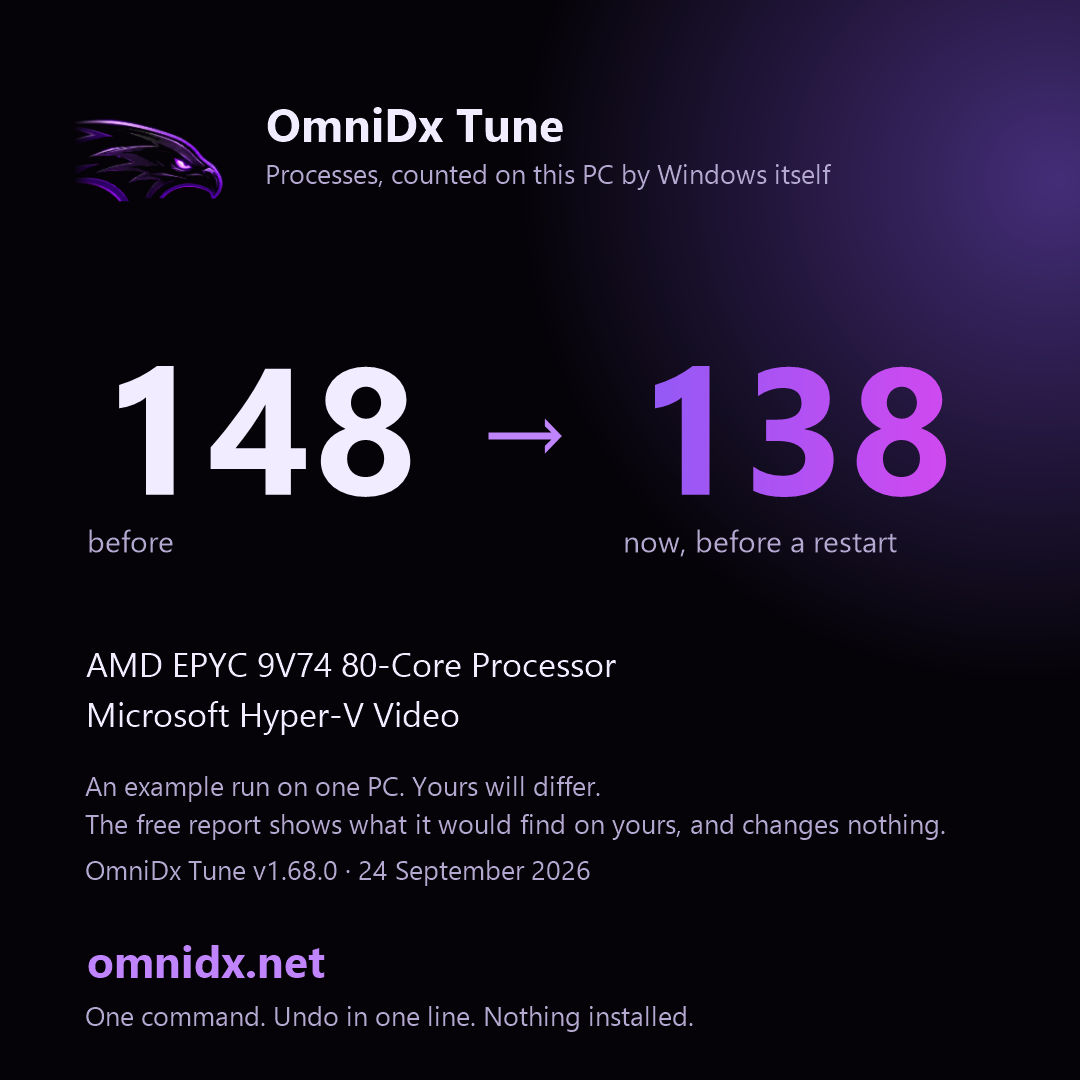
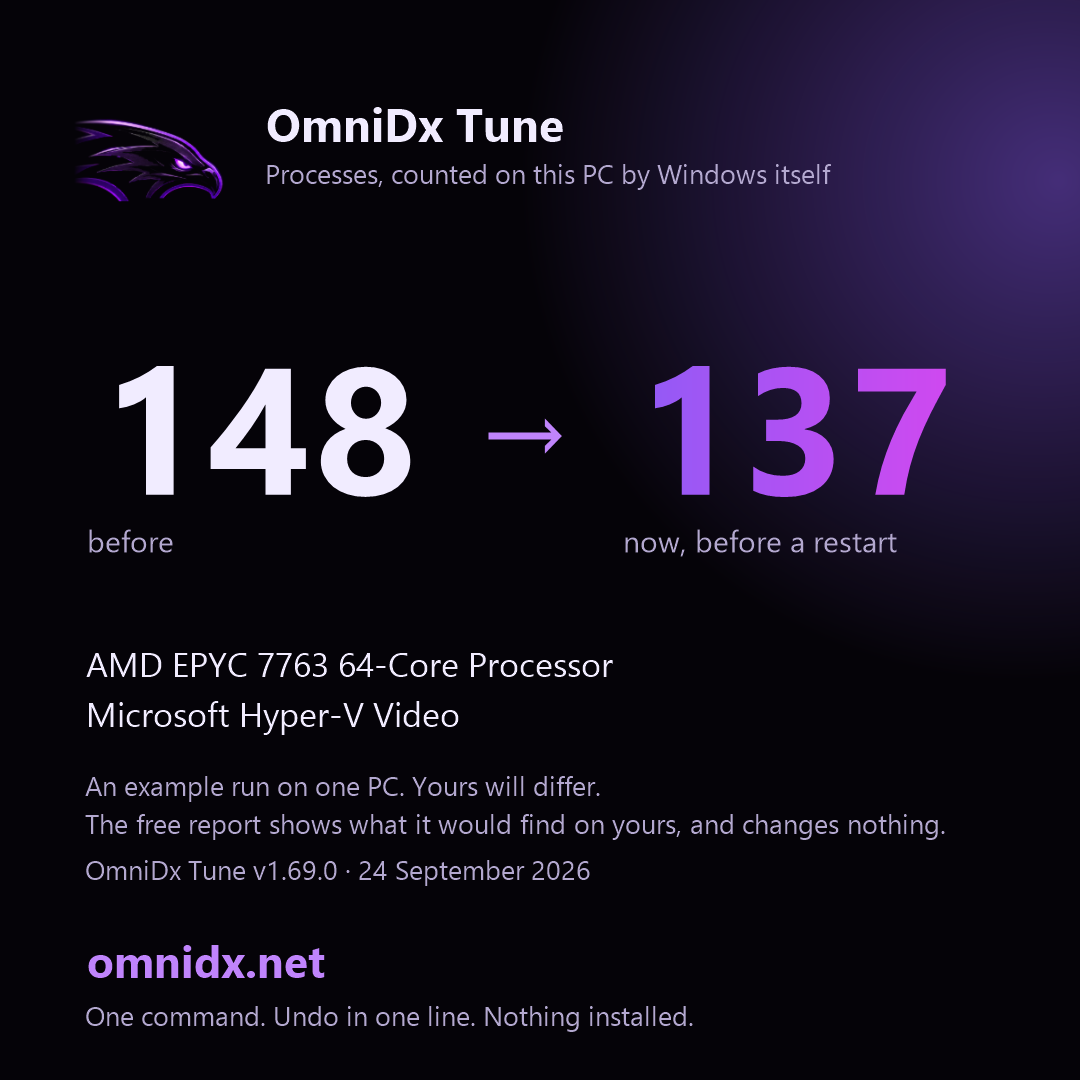
Windows check: the app window, the numbers, the log, and the script this run verified

Changed region(s): [[0.2444, 0.5806, 0.5806, 0.6417], [0.7944, 0.3361, 0.8861, 0.4583], [0.275, 0.7944, 0.3056, 0.825]]

diff --git a/studio/assets/ci-report.html b/studio/assets/ci-report.html
@@ -1,5 +1,5 @@
 <!doctype html><html lang="en"><head><meta charset="utf-8"><meta name="viewport" content="width=device-width,initial-scale=1">
-<title>OmniDx Tune report - 2026-09-24_11-52-51</title>
+<title>OmniDx Tune report - 2026-09-24_12-01-41</title>
 <style>
 body{margin:0;background:#050308;color:#f1ecff;font:15px/1.6 -apple-system,'Segoe UI',Roboto,system-ui,sans-serif}
 main{max-width:860px;margin:0 auto;padding:36px 20px 80px}
@@ -17,95 +17,41 @@ details{margin:10px 0;background:#0e0a17;border:1px solid #2a1f45;border-radius:
 details pre{font:12.5px/1.5 ui-monospace,Consolas,monospace;color:#b3a8cf;overflow:auto;max-height:420px;margin:10px 0 4px}
 .bios ul{list-style:none;padding-left:2px}.bios li{margin:8px 0;color:#f1ecff}.bios{background:#0e0a17;border:1px solid #2a1f45;border-radius:14px;padding:6px 18px}
 </style></head><body><main>
-<h1><img src="https://omnidx.net/studio/assets/icons/icon-192.png" alt="" width="44" height="44" style="vertical-align:middle;margin-right:10px" onerror="this.remove()">OmniDx Tune <span class="muted" style="font-size:16px">v1.68.0</span></h1>
-<p class="sub">Thursday, September 24, 2026 11:53 AM &middot; AMD EPYC 9V74 80-Core Processor &middot; Microsoft Hyper-V Video &middot; 16 GB &middot; Microsoft Corporation Virtual Machine</p>
-<div class="big"><div><b>148</b><span>processes before</span></div><div><b>138</b><span>now, before a restart</span></div><div><b>~70</b><span>target for this PC after a restart</span></div></div>
+<h1><img src="https://omnidx.net/studio/assets/icons/icon-192.png" alt="" width="44" height="44" style="vertical-align:middle;margin-right:10px" onerror="this.remove()">OmniDx Tune <span class="muted" style="font-size:16px">v1.69.0</span></h1>
+<p class="sub">Thursday, September 24, 2026 12:02 PM &middot; AMD EPYC 7763 64-Core Processor &middot; Microsoft Hyper-V Video &middot; 16 GB &middot; Microsoft Corporation Virtual Machine</p>
+<div class="big"><div><b>148</b><span>processes before</span></div><div><b>137</b><span>now, before a restart</span></div><div><b>~70</b><span>target for this PC after a restart</span></div></div>
 <p class='muted'>The card, for posting (the same numbers, on one picture): <code>ci-card.png</code></p><img src='ci-card.png' alt='Before and after, on a card' style='max-width:340px;width:100%;border-radius:14px;border:1px solid #2a1f45'>
 <p class="muted">Many of the "now" processes are only waiting to be stopped. The number after a restart is the one that counts; <code>C:\OmniDx\after-restart.txt</code> gets it at your next sign-in. Kept cut: a task at each sign-in puts back what a Windows update turns on; undo removes it.</p>
 <h2>Next steps</h2><ol><li>Restart. The services told to stop are still unwinding until you do, and the after-restart count lands in C:\OmniDx\after-restart.txt at your next sign-in, with the boot time of that start next to the one from before the tune.</li><li>BIOS: items 1 to 3 (memory profile, Re-Size BAR, CSM). Ten minutes, and the memory profile alone is the biggest free gain any PC has.</li><li>GPU control panel: low latency mode, power management and V-Sync, from the list below. Two minutes.</li><li>Launchers and overlays: the list below names the one or two settings in each that matter; the overlays are the usual cause of a stutter that &quot;came from nowhere&quot;.</li><li>Any time: $env:OMNIDX_MODE=&#39;status&#39;; irm omnidx.net/go.ps1 | iex shows what is still in place; undo is one line, and it is in this report.</li></ol>
-<h2>Before and after</h2><table><tr><th></th><th>Before</th><th>Now</th></tr><tr><td>Processes</td><td>148</td><td>138</td></tr><tr><td>Threads</td><td>1603</td><td>1475</td></tr><tr><td>Handles</td><td>51249</td><td>47432</td></tr><tr><td>Memory in use</td><td>2858 MB</td><td>2937 MB</td></tr><tr><td>Idle CPU</td><td>1.7%</td><td>0.3%</td></tr><tr><td>DPC time</td><td>0.13%</td><td>0%</td></tr></table>
+<h2>Before and after</h2><table><tr><th></th><th>Before</th><th>Now</th></tr><tr><td>Processes</td><td>148</td><td>137</td></tr><tr><td>Threads</td><td>1480</td><td>1440</td></tr><tr><td>Handles</td><td>49918</td><td>46705</td></tr><tr><td>Memory in use</td><td>2834 MB</td><td>2915 MB</td></tr><tr><td>Idle CPU</td><td>1%</td><td>1.8%</td></tr><tr><td>DPC time</td><td>0%</td><td>0.26%</td></tr></table>
 <h2>Gone, by name</h2><p class='muted'>Running before, not running now: spoolsv</p>
-<details><summary>Every process, before (55 names)</summary><pre>svchost                                  x83     1,270 MB
+<details><summary>Every process, before (56 names)</summary><pre>svchost                                  x82     1,237 MB
 conhost                                  x4         34 MB
-taskhostw                                x3         63 MB
+taskhostw                                x3         59 MB
 WmiPrvSE                                 x3         62 MB
 csrss                                    x2         14 MB
 fontdrvhost                              x2         11 MB
 notepad                                  x2         59 MB
 SMSvcHost                                x2         50 MB
 AzureArcSysTray                          x1         19 MB
-ctfmon                                   x1         26 MB
-dockerd                                  x1         45 MB
+ctfmon                                   x1         25 MB
+DefenderSessionHelper                    x1          6 MB
+dockerd                                  x1         46 MB
 dwm                                      x1         76 MB
-explorer                                 x1        163 MB
-hosted-compute-agent                     x1         21 MB
+explorer                                 x1        159 MB
+hosted-compute-agent                     x1         22 MB
 Idle                                     x1          0 MB
 LsaIso                                   x1          4 MB
 lsass                                    x1         31 MB
-MpDefenderCoreService                    x1         29 MB
+MpDefenderCoreService                    x1         30 MB
 mqsvc                                    x1         19 MB
 msdtc                                    x1         14 MB
-MsMpEng                                  x1        201 MB
-node                                     x1         43 MB
+MsMpEng                                  x1        197 MB
+node                                     x1         40 MB
 OpenConsole                              x1         14 MB
-powershell                               x1        164 MB
-provjobd.exe3832855868                   x1         36 MB
+powershell                               x1        165 MB
+provjobd.exe537717457                    x1         36 MB
 Registry                                 x1         45 MB
-Runner.Listener                          x1         70 MB
-Runner.Worker                            x1        104 MB
-RuntimeBroker                            x1         49 MB
-SearchHost                               x1        113 MB
-Secure System                            x1         52 MB
-SecurityHealthService                    x1         12 MB
-ServiceFabricLocalClusterManager         x1         36 MB
-services                                 x1         11 MB
-ShellHost                                x1         42 MB
-sihost                                   x1         42 MB
-smartscreen                              x1         12 MB
-smss                                     x1          2 MB
-spoolsv                                  x1         22 MB
-sqlwriter                                x1         11 MB
-sshd                                     x1          9 MB
-StartMenuExperienceHost                  x1        133 MB
-System                                   x1          0 MB
-TiWorker                                 x1         31 MB
-TrustedInstaller                         x1         10 MB
-UserOOBEBroker                           x1         11 MB
-vmcompute                                x1         10 MB
-vmms                                     x1         33 MB
-WaAppAgent                               x1         86 MB
-WaSecAgentProv                           x1          5 MB
-WindowsAzureGuestAgent                   x1         70 MB
-WindowsTerminal                          x1         85 MB
-wininit                                  x1          9 MB
-winlogon                                 x1         13 MB
-wslservice                               x1         28 MB</pre></details><details><summary>Every process, after (56 names)</summary><pre>svchost                                  x72     1,083 MB
-conhost                                  x4         33 MB
-taskhostw                                x3         59 MB
-WmiPrvSE                                 x3         68 MB
-csrss                                    x2         14 MB
-fontdrvhost                              x2         11 MB
-notepad                                  x2         59 MB
-SMSvcHost                                x2         50 MB
-AzureArcSysTray                          x1         19 MB
-ctfmon                                   x1         26 MB
-dllhost                                  x1         13 MB
-dockerd                                  x1         45 MB
-dwm                                      x1         76 MB
-explorer                                 x1        161 MB
-hosted-compute-agent                     x1         21 MB
-Idle                                     x1          0 MB
-LsaIso                                   x1          4 MB
-lsass                                    x1         31 MB
-MpDefenderCoreService                    x1         29 MB
-mqsvc                                    x1         19 MB
-msdtc                                    x1         14 MB
-MsMpEng                                  x1        201 MB
-node                                     x1         41 MB
-OpenConsole                              x1         14 MB
-powershell                               x1        191 MB
-provjobd.exe3832855868                   x1         35 MB
-Registry                                 x1         74 MB
 Runner.Listener                          x1         71 MB
 Runner.Worker                            x1        102 MB
 RuntimeBroker                            x1         47 MB
@@ -115,17 +61,18 @@ SecurityHealthService                    x1         12 MB
 ServiceFabricLocalClusterManager         x1         36 MB
 services                                 x1         12 MB
 ShellHost                                x1         42 MB
-sihost                                   x1         42 MB
+sihost                                   x1         43 MB
 smartscreen                              x1         12 MB
 smss                                     x1          2 MB
+spoolsv                                  x1         22 MB
 sqlwriter                                x1         11 MB
 sshd                                     x1          9 MB
-StartMenuExperienceHost                  x1        131 MB
+StartMenuExperienceHost                  x1        130 MB
 System                                   x1          0 MB
-TiWorker                                 x1         38 MB
+TiWorker                                 x1         30 MB
 TrustedInstaller                         x1         10 MB
 UserOOBEBroker                           x1         11 MB
-vmcompute                                x1         10 MB
+vmcompute                                x1         11 MB
 vmms                                     x1         33 MB
 WaAppAgent                               x1         86 MB
 WaSecAgentProv                           x1          5 MB
@@ -133,8 +80,62 @@ WindowsAzureGuestAgent                   x1         70 MB
 WindowsTerminal                          x1         85 MB
 wininit                                  x1          9 MB
 winlogon                                 x1         13 MB
-WMIADAP                                  x1         11 MB
-wslservice                               x1         29 MB</pre></details>
+wslservice                               x1         28 MB</pre></details><details><summary>Every process, after (56 names)</summary><pre>svchost                                  x71     1,073 MB
+conhost                                  x4         34 MB
+taskhostw                                x3         56 MB
+WmiPrvSE                                 x3         69 MB
+csrss                                    x2         14 MB
+fontdrvhost                              x2         11 MB
+notepad                                  x2         59 MB
+SMSvcHost                                x2         50 MB
+AzureArcSysTray                          x1         19 MB
+ctfmon                                   x1         25 MB
+DefenderSessionHelper                    x1          6 MB
+dllhost                                  x1         13 MB
+dockerd                                  x1         46 MB
+dwm                                      x1         76 MB
+explorer                                 x1        160 MB
+hosted-compute-agent                     x1         21 MB
+Idle                                     x1          0 MB
+LsaIso                                   x1          4 MB
+lsass                                    x1         31 MB
+MpDefenderCoreService                    x1         30 MB
+mqsvc                                    x1         19 MB
+msdtc                                    x1         14 MB
+MsMpEng                                  x1        162 MB
+node                                     x1         39 MB
+OpenConsole                              x1         14 MB
+powershell                               x1        190 MB
+provjobd.exe537717457                    x1         35 MB
+Registry                                 x1         74 MB
+Runner.Listener                          x1         71 MB
+Runner.Worker                            x1        100 MB
+RuntimeBroker                            x1         47 MB
+SearchHost                               x1        109 MB
+Secure System                            x1         52 MB
+SecurityHealthService                    x1         12 MB
+ServiceFabricLocalClusterManager         x1         36 MB
+services                                 x1         12 MB
+ShellHost                                x1         42 MB
+sihost                                   x1         43 MB
+smartscreen                              x1         12 MB
+smss                                     x1          2 MB
+sqlwriter                                x1         11 MB
+sshd                                     x1          9 MB
+StartMenuExperienceHost                  x1        131 MB
+System                                   x1          0 MB
+TiWorker                                 x1         40 MB
+TrustedInstaller                         x1         10 MB
+UserOOBEBroker                           x1         11 MB
+vmcompute                                x1         11 MB
+vmms                                     x1         33 MB
+WaAppAgent                               x1         86 MB
+WaSecAgentProv                           x1          5 MB
+WindowsAzureGuestAgent                   x1         70 MB
+WindowsTerminal                          x1         85 MB
+wininit                                  x1          9 MB
+winlogon                                 x1         13 MB
+wslservice                               x1         28 MB</pre></details>
 <h2>Kept, and why</h2><ul><li>Defender, the firewall, Windows Update, audio, networking: always</li><li>Themes: Windows 10 falls back to the classic look without it</li><li>vmicguestinterface: this is a virtual machine</li><li>vmicheartbeat: this is a virtual machine</li><li>vmickvpexchange: this is a virtual machine</li><li>vmicrdv: this is a virtual machine</li><li>vmicshutdown: this is a virtual machine</li><li>vmictimesync: this is a virtual machine</li><li>vmicvmsession: this is a virtual machine</li><li>vmicvss: this is a virtual machine</li></ul>
 <h2>Warnings (3)</h2><div class="warn"><ul><li>The GPU driver dates from Jun 2006. A current driver is worth more than most tweaks.</li><li>This looks like a virtual machine. The tune will run, but the numbers mean little here.</li><li>Could not make a restore point (This functionality is not supported on this operating system.). The undo script still records everything.</li></ul></div>
 <h2>BIOS checklist for Microsoft Corporation Virtual Machine</h2><div class="bios"><ul><li>How to get in: restart, then press Del or F2 while the logo shows.</li><li>Where things are: the Advanced / Overclocking pages for memory, the PCI or Chipset page for Above 4G / Re-Size BAR, the Boot page for CSM, the Security page for TPM and Secure Boot.</li><li>1. Memory profile: enable EXPO (or DOCP / A-XMP on older boards). Your RAM is running at the slow default until you do; this is the single biggest free gain on any PC. Pick the profile matching the speed printed on the sticks.</li><li>2. Re-Size BAR / Smart Access Memory: set Above 4G Decoding = Enabled, then Re-Size BAR Support = Auto/Enabled. Needs CSM off (next line). Worth 5-15% in many games on RTX 30/40/50 and RX 6000+.</li><li>3. CSM (Compatibility Support Module): Disabled. You already boot UEFI, so nothing depends on it, and Re-Size BAR needs it off.</li><li>4. Secure Boot: Enabled. Windows 11 and Vanguard expect it; on 10 it costs nothing. Set OS Type / Secure Boot Mode to Windows UEFI if asked.</li><li>5. TPM: not detected. Enable AMD fTPM (AMD) or Intel PTT (Intel) under Security / Trusted Computing. VALORANT on Windows 11 will not run without it.</li><li>6. Precision Boost Overdrive: Enabled (or Advanced with the Curve Optimizer at a modest negative offset like -15 all-core if you know your cooler). Never a positive voltage offset.</li><li>7. Global C-states / package C-states: Auto is fine. Disabling them buys nothing measurable in games and raises idle heat.</li><li>8. Fast Boot: Enabled. Full Screen Logo / Boot Logo: Disabled (a second off every boot).</li><li>9. Fan curves: set the CPU fan to reach 100% by 80 C and the case fans to a steady ramp. Sustained boost needs airflow more than anything.</li><li>10. Onboard devices you do not use: serial port, Wi-Fi/Bluetooth if wired, onboard audio if you use USB audio, RGB controllers. Each one removed is an interrupt source gone.</li><li>11. HPET: leave at default. The &#39;disable HPET&#39; tweak is from 2013 and hurts more than it helps on modern Windows.</li><li>12. Virtualisation (SVM / VT-x): leave on if you use WSL, Docker, an emulator, or play VALORANT or on FACEIT (their anti-cheat needs it, with IOMMU); otherwise off saves a little scheduling overhead.</li><li>After saving: Windows will boot normally. If it does not (rare, usually CSM), go back in and re-enable the last thing you changed.</li><li>Do not update the BIOS unless the vendor&#39;s notes mention a fix for your exact problem; a failed flash is the one thing here that cannot be undone from Windows.</li></ul></div>
@@ -142,8 +143,8 @@ wslservice                               x1         29 MB</pre></details>
 <h2>Launchers, overlays and helper apps</h2><ul><li>None of the usual launchers, overlays or peripheral suites found. The same notes apply the day you install one; run the command again and they appear here.</li></ul>
 <h2>Left by other tools</h2><p class="muted">The tune changes none of these; it names them, with the way back.</p><ul><li>Nothing found: no other tool has left Defender, Windows Update, SmartScreen, User Account Control or the CPU mitigations switched off on this PC.</li></ul>
 <h2>Per game</h2><p class='muted'>Not found on this PC (the same profile applies if you install them): Fortnite, VALORANT, Counter-Strike 2, Marvel Rivals, Apex Legends, Call of Duty (Warzone / MW), Overwatch 2, Rainbow Six Siege, Rocket League, Minecraft, Roblox, League of Legends, GTA V / Online, Rust, Escape from Tarkov, PUBG, The Finals, Dota 2, Battlefield 6, Deadlock, Delta Force, ARC Raiders, Helldivers 2, Warframe, Destiny 2, Halo Infinite, Dead by Daylight, Hunt: Showdown 1896, War Thunder, World of Warcraft, Squad, Battlefield 2042, EA Sports FC 26, NBA 2K26, Palworld, Path of Exile 2, Diablo IV, Monster Hunter Wilds, Elden Ring / Nightreign, Cyberpunk 2077, Baldur&#39;s Gate 3, Star Citizen, DayZ, Arma Reforger, Hell Let Loose, Genshin Impact, Ready or Not, Final Fantasy XIV, STALKER 2, Sea of Thieves</p>
-<h2>What was done</h2><h4>Safety first</h4><div class='did'>Registry and service list backed up to C:\OmniDx\backup\2026-09-24_11-52-51</div><div class='did'>undo.ps1 written to C:\OmniDx\undo</div><h4>Startup apps</h4><div class='did'>off: AzureArcSetup</div><div class='did'>off: Service Fabric Local Cluster Manager (Startup folder)</div><h4>Services</h4><div class='did'>dmwappushservice -&gt; disabled  (telemetry push)</div><div class='did'>WerSvc -&gt; disabled  (error reporting)</div><div class='did'>wercplsupport -&gt; disabled  (error reporting)</div><div class='did'>PcaSvc -&gt; disabled  (compatibility assistant)</div><div class='did'>lfsvc -&gt; disabled  (geolocation)</div><div class='did'>RemoteRegistry -&gt; disabled  (remote registry)</div><div class='did'>WMPNetworkSvc -&gt; disabled  (media sharing)</div><div class='did'>TrkWks -&gt; disabled  (link tracking)</div><div class='did'>WalletService -&gt; disabled  (wallet)</div><div class='did'>wisvc -&gt; disabled  (insider program)</div><div class='did'>SEMgrSvc -&gt; disabled  (payments and NFC)</div><div class='did'>TapiSrv -&gt; disabled  (telephony)</div><div class='did'>SharedAccess -&gt; disabled  (internet connection sharing)</div><div class='did'>edgeupdate -&gt; manual  (Edge updater (runs on demand))</div><div class='did'>WbioSrvc -&gt; disabled  (biometrics)</div><div class='did'>SysMain already disabled; left that way</div><div class='did'>WSearch already disabled; left that way</div><div class='did'>Spooler -&gt; disabled  (print spooler)</div><div class='did'>bthserv -&gt; disabled  (bluetooth)</div><div class='did'>WlanSvc -&gt; disabled  (wi-fi)</div><div class='did'>CDPSvc -&gt; manual  (connected devices)</div><div class='did'>CDPUserSvc already disabled; left that way</div><div class='did'>OneSyncSvc already disabled; left that way</div><div class='did'>PimIndexMaintenanceSvc already disabled; left that way</div><div class='did'>UnistoreSvc already disabled; left that way</div><div class='did'>UserDataSvc already disabled; left that way</div><div class='did'>SSDPSRV already disabled; left that way</div><div class='did'>upnphost already disabled; left that way</div><div class='did'>DPS -&gt; manual  (diagnostic policy)</div><div class='did'>SCardSvr -&gt; disabled  (smart card)</div><div class='did'>ScDeviceEnum -&gt; disabled  (smart card)</div><div class='did'>CertPropSvc -&gt; disabled  (smart card)</div><div class='did'>iphlpsvc -&gt; manual  (ipv6 tunnels)</div><div class='did'>cbdhsvc -&gt; manual  (clipboard history)</div><div class='did'>WpnService -&gt; manual  (push notifications)</div><div class='did'>WpnUserService -&gt; manual  (push notifications)</div><div class='did'>SNMPTRAP -&gt; disabled  (SNMP traps)</div><div class='did'>workfolderssvc -&gt; disabled  (Work Folders sync)</div><h4>Scheduled tasks</h4><div class='did'>PcaPatchDbTask</div><div class='did'>CreateObjectTask</div><div class='did'>Device</div><div class='did'>Device User</div><div class='did'>LoginCheck</div><div class='did'>WindowsActionDialog</div><div class='did'>OobeDiscovery</div><div class='did'>Diagnostics</div><div class='did'>UsageDataFlushing</div><div class='did'>UsageDataReporting</div><div class='did'>Registration</div><div class='did'>IndexerAutomaticMaintenance</div><div class='did'>Storage Tiers Management Initialization</div><div class='did'>UPnPHostConfig</div><div class='did'>ResolutionHost</div><div class='did'>UpdateLibrary</div><div class='did'>Work Folders Logon Synchronization</div><div class='did'>Work Folders Maintenance Work</div><h4>Preinstalled apps</h4><div class='did'>Microsoft.WindowsFeedbackHub</div><h4>Debloat</h4><div class='did'>removed Steps Recorder (screenshots every click, retired by Microsoft)</div><div class='did'>removed the 2009 Windows Media Player (the Store one stays)</div><div class='did'>removed Math Input Panel</div><div class='did'>removed Internet Explorer 11</div><div class='did'>off: Work Folders (corporate sync)</div><div class='did'>Edge: shopping assistant, recommendations, Spotlight, feedback prompts and reporting off</div><div class='did'>Kept gone: consumer features, suggested apps, account nags and the &#39;finish setting up&#39; screen are off by policy</div><h4>Telemetry, background activity, the shell</h4><div class='did'>Telemetry, the advertising id, activity history, suggestions, Bing in Start, Recall and Edge&#39;s reporting off; background apps off; widgets, news, Copilot and Cortana off; Game DVR off, Game Mode on; the classic right-click menu on 11</div><h4>System tuning</h4><div class='did'>NTFS last-access stamps off</div><div class='did'>NTFS allowed more memory for its cache</div><div class='did'>Defender&#39;s scheduled scans already capped at 5% of the CPU, lower than the tune&#39;s 25%: left as it is</div><h4>The OmniDx power plan</h4><div class='did'>2 plan setting(s) this PC does not have were skipped.</div><div class='did'>OmniDx plan created and active: CPU 100/100, boost aggressive, energy preference on performance, no core parking, no throttle states on a desktop, PCIe, USB and Wi-Fi power saving off, no sleep on mains.</div><h4>Network</h4><div class='did'>TCP: autotuning normal, ECN and timestamps off, receive-side scaling on, segment coalescing off, CTCP.</div><div class='did'>Ethernet 3: Nagle off, power saving off</div><div class='did'>Ethernet 4: Interrupt Moderation off</div><div class='did'>Ethernet 4: Nagle off, power saving off</div><h4>Discord, Spotify, browsers</h4><div class='did'>Chrome: no background mode, hardware acceleration on</div><div class='did'>Edge: no startup boost, no background mode, hardware acceleration on</div><h4>Game profiles</h4><div class='did'>No listed game found on the usual drives; the CPU-priority profiles are in place for when one is installed.</div><h4>Cleanup</h4><div class='did'>Temp files, the Windows Update download cache and the peer-to-peer update cache cleared: about 374 MB back.</div><h4>Keeping it cut</h4><div class='did'>Task &#39;OmniDx keep&#39; runs three minutes after sign-in, puts back whatever an update turned on, notes that start&#39;s boot time and writes card-after-restart.png with that start&#39;s count. Log: C:\OmniDx\keep-log.txt. Undo removes it.</div>
-<h2>Undo</h2><p>Administrator PowerShell: <code>powershell -ExecutionPolicy Bypass -File C:\OmniDx\undo\undo.ps1</code><br>No restore point was made on this run (see the warnings); the undo script is the way back.<br>Changes recorded in <code>C:\OmniDx\undo\changes-2026-09-24_11-52-51.json</code>.</p>
+<h2>What was done</h2><h4>Safety first</h4><div class='did'>Registry and service list backed up to C:\OmniDx\backup\2026-09-24_12-01-41</div><div class='did'>undo.ps1 written to C:\OmniDx\undo</div><h4>Startup apps</h4><div class='did'>off: AzureArcSetup</div><div class='did'>off: Service Fabric Local Cluster Manager (Startup folder)</div><h4>Services</h4><div class='did'>dmwappushservice -&gt; disabled  (telemetry push)</div><div class='did'>WerSvc -&gt; disabled  (error reporting)</div><div class='did'>wercplsupport -&gt; disabled  (error reporting)</div><div class='did'>PcaSvc -&gt; disabled  (compatibility assistant)</div><div class='did'>lfsvc -&gt; disabled  (geolocation)</div><div class='did'>RemoteRegistry -&gt; disabled  (remote registry)</div><div class='did'>WMPNetworkSvc -&gt; disabled  (media sharing)</div><div class='did'>TrkWks -&gt; disabled  (link tracking)</div><div class='did'>WalletService -&gt; disabled  (wallet)</div><div class='did'>wisvc -&gt; disabled  (insider program)</div><div class='did'>SEMgrSvc -&gt; disabled  (payments and NFC)</div><div class='did'>TapiSrv -&gt; disabled  (telephony)</div><div class='did'>SharedAccess -&gt; disabled  (internet connection sharing)</div><div class='did'>edgeupdate -&gt; manual  (Edge updater (runs on demand))</div><div class='did'>WbioSrvc -&gt; disabled  (biometrics)</div><div class='did'>SysMain already disabled; left that way</div><div class='did'>WSearch already disabled; left that way</div><div class='did'>Spooler -&gt; disabled  (print spooler)</div><div class='did'>bthserv -&gt; disabled  (bluetooth)</div><div class='did'>WlanSvc -&gt; disabled  (wi-fi)</div><div class='did'>CDPSvc -&gt; manual  (connected devices)</div><div class='did'>CDPUserSvc already disabled; left that way</div><div class='did'>OneSyncSvc already disabled; left that way</div><div class='did'>PimIndexMaintenanceSvc already disabled; left that way</div><div class='did'>UnistoreSvc already disabled; left that way</div><div class='did'>UserDataSvc already disabled; left that way</div><div class='did'>SSDPSRV already disabled; left that way</div><div class='did'>upnphost already disabled; left that way</div><div class='did'>DPS -&gt; manual  (diagnostic policy)</div><div class='did'>SCardSvr -&gt; disabled  (smart card)</div><div class='did'>ScDeviceEnum -&gt; disabled  (smart card)</div><div class='did'>CertPropSvc -&gt; disabled  (smart card)</div><div class='did'>iphlpsvc -&gt; manual  (ipv6 tunnels)</div><div class='did'>cbdhsvc -&gt; manual  (clipboard history)</div><div class='did'>WpnService -&gt; manual  (push notifications)</div><div class='did'>WpnUserService -&gt; manual  (push notifications)</div><div class='did'>SNMPTRAP -&gt; disabled  (SNMP traps)</div><div class='did'>workfolderssvc -&gt; disabled  (Work Folders sync)</div><h4>Scheduled tasks</h4><div class='did'>PcaPatchDbTask</div><div class='did'>CreateObjectTask</div><div class='did'>Device</div><div class='did'>Device User</div><div class='did'>LoginCheck</div><div class='did'>WindowsActionDialog</div><div class='did'>OobeDiscovery</div><div class='did'>Diagnostics</div><div class='did'>UsageDataFlushing</div><div class='did'>UsageDataReporting</div><div class='did'>Registration</div><div class='did'>IndexerAutomaticMaintenance</div><div class='did'>Storage Tiers Management Initialization</div><div class='did'>UPnPHostConfig</div><div class='did'>ResolutionHost</div><div class='did'>UpdateLibrary</div><div class='did'>Work Folders Logon Synchronization</div><div class='did'>Work Folders Maintenance Work</div><h4>Preinstalled apps</h4><div class='did'>Microsoft.WindowsFeedbackHub</div><h4>Debloat</h4><div class='did'>removed Steps Recorder (screenshots every click, retired by Microsoft)</div><div class='did'>removed the 2009 Windows Media Player (the Store one stays)</div><div class='did'>removed Math Input Panel</div><div class='did'>removed Internet Explorer 11</div><div class='did'>off: Work Folders (corporate sync)</div><div class='did'>Edge: shopping assistant, recommendations, Spotlight, feedback prompts and reporting off</div><div class='did'>Kept gone: consumer features, suggested apps, account nags and the &#39;finish setting up&#39; screen are off by policy</div><h4>Telemetry, background activity, the shell</h4><div class='did'>Telemetry, the advertising id, activity history, suggestions, Bing in Start, Recall and Edge&#39;s reporting off; background apps off; widgets, news, Copilot and Cortana off; Game DVR off, Game Mode on; the classic right-click menu on 11</div><h4>System tuning</h4><div class='did'>NTFS last-access stamps off</div><div class='did'>NTFS allowed more memory for its cache</div><div class='did'>Defender&#39;s scheduled scans already capped at 5% of the CPU, lower than the tune&#39;s 25%: left as it is</div><h4>The OmniDx power plan</h4><div class='did'>2 plan setting(s) this PC does not have were skipped.</div><div class='did'>OmniDx plan created and active: CPU 100/100, boost aggressive, energy preference on performance, no core parking, no throttle states on a desktop, PCIe, USB and Wi-Fi power saving off, no sleep on mains.</div><h4>Network</h4><div class='did'>TCP: autotuning normal, ECN and timestamps off, receive-side scaling on, segment coalescing off, CTCP.</div><div class='did'>Ethernet 3: Nagle off, power saving off</div><div class='did'>Ethernet 4: Interrupt Moderation off</div><div class='did'>Ethernet 4: Nagle off, power saving off</div><h4>Discord, Spotify, browsers</h4><div class='did'>Chrome: no background mode, hardware acceleration on</div><div class='did'>Edge: no startup boost, no background mode, hardware acceleration on</div><h4>Game profiles</h4><div class='did'>No listed game found on the usual drives; the CPU-priority profiles are in place for when one is installed.</div><h4>Cleanup</h4><div class='did'>Temp files, the Windows Update download cache and the peer-to-peer update cache cleared: about 373 MB back.</div><h4>Keeping it cut</h4><div class='did'>Task &#39;OmniDx keep&#39; runs three minutes after sign-in, puts back whatever an update turned on, notes that start&#39;s boot time and writes card-after-restart.png with that start&#39;s count. Log: C:\OmniDx\keep-log.txt. Undo removes it.</div>
+<h2>Undo</h2><p>Administrator PowerShell: <code>powershell -ExecutionPolicy Bypass -File C:\OmniDx\undo\undo.ps1</code><br>No restore point was made on this run (see the warnings); the undo script is the way back.<br>Changes recorded in <code>C:\OmniDx\undo\changes-2026-09-24_12-01-41.json</code>.</p>
 <h2>Status, any time</h2><p>What is still in place, what an update put back, the keep task and the after-restart count: <code>$env:OMNIDX_MODE='status'; irm omnidx.net/go.ps1 | iex</code><br><span class="muted">README.txt in C:\OmniDx says what each file there is.</span></p>
 <p class="muted" style="margin-top:40px">omnidx.net &middot; one payment, one PC, undo in one line.</p>
 </main></body></html>
